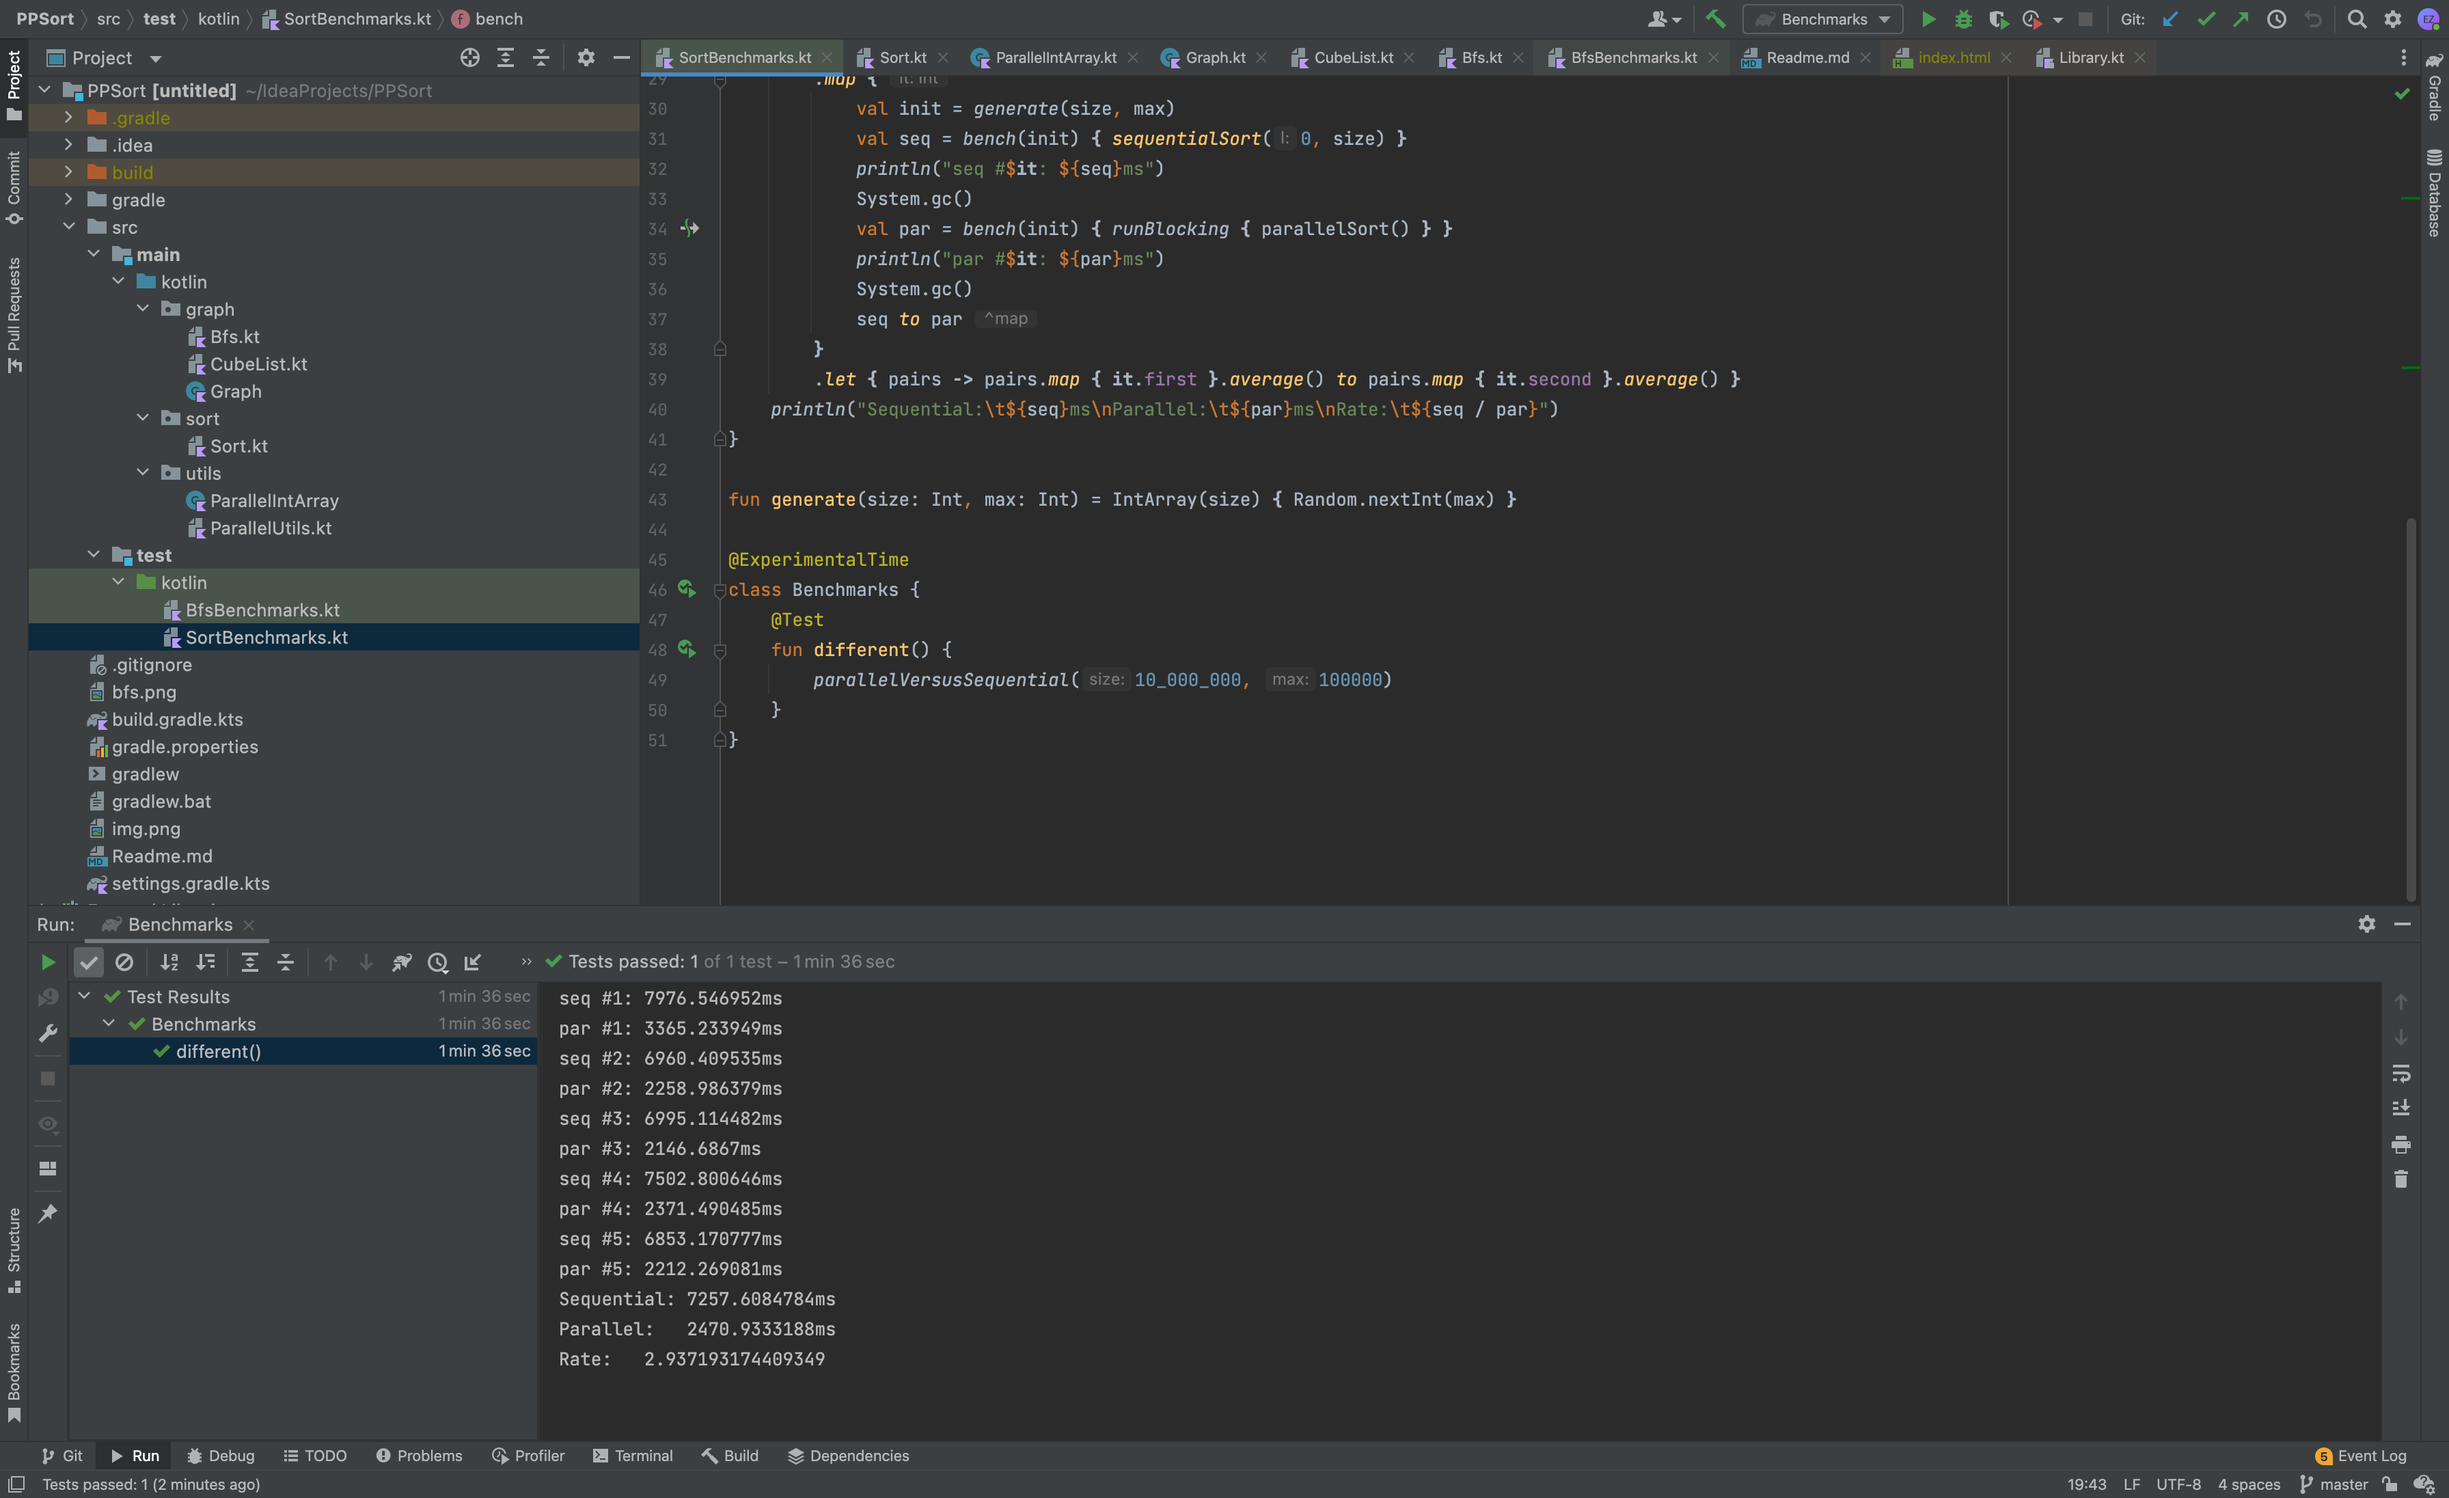
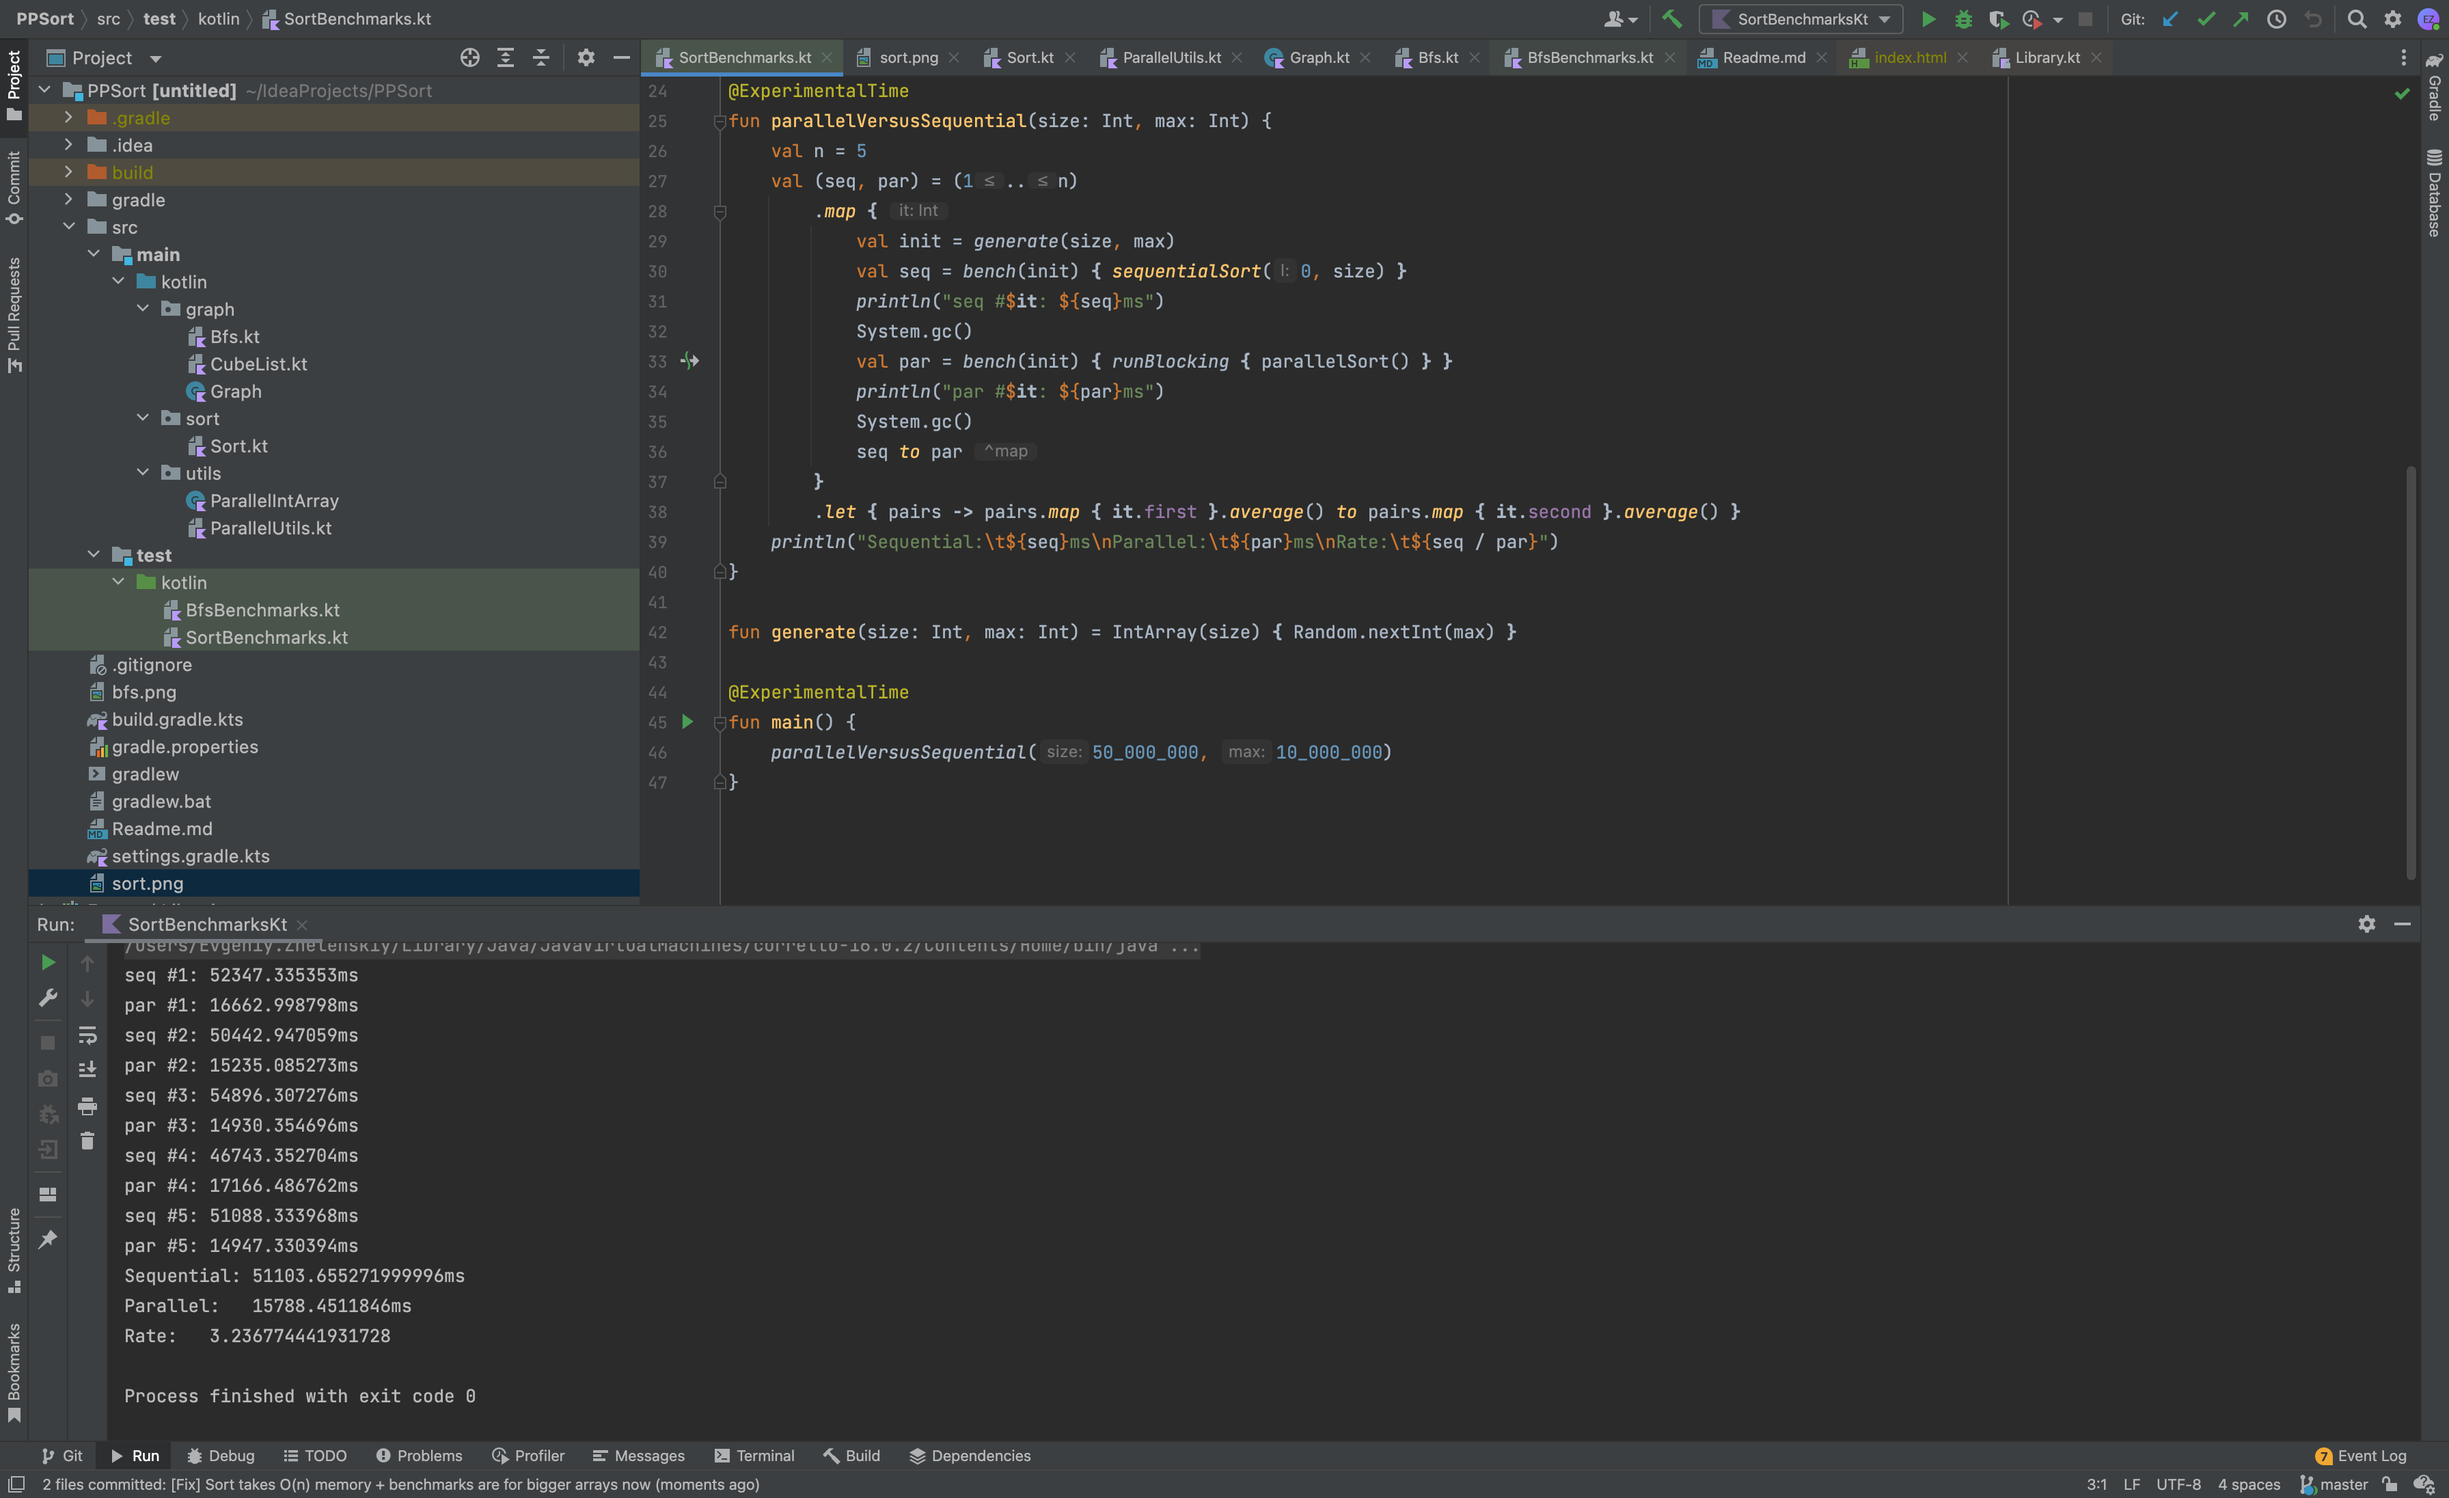
[Fix] Sort takes O(n) memory + benchmarks are for bigger arrays now

diff --git a/src/main/kotlin/sort/Sort.kt b/src/main/kotlin/sort/Sort.kt
@@ -39,23 +39,23 @@ fun main() {
     }
 }
 
-suspend fun ParallelIntArray.parallelSort() {
-    if (size < utils.Config.psortChunk) return sequentialSort(0, size)
-    val pivot = get((0 until size).random())
+suspend fun ParallelIntArray.parallelSort(l: Int = 0, r: Int = size) {
+    if (r - l < Config.psortChunk) return sequentialSort(l, r)
+    val pivot = get((l until r).random())
     val (left, middle, right) = fork2join(
-        { pfilter { it < pivot } },
-        { pfilter { it == pivot } },
-        { pfilter { it > pivot } },
+        { pfilter(l, r) { it < pivot } },
+        { pfilter(l, r) { it == pivot } },
+        { pfilter(l, r) { it > pivot } },
     )
-    fork2join({ left.parallelSort() }, { right.parallelSort() })
     val offset1 = left.size
     val offset2 = offset1 + middle.size
     fork2join(
-        { (0 until left.size).pfor { this[it] = left[it] } },
-        { (0 until middle.size).pfor { this[offset1 + it] = middle[it] } },
-        { (0 until right.size).pfor { this[offset2 + it] = right[it] } },
+        { (0 until left.size).pfor { this[l + it] = left[it] } },
+        { (0 until middle.size).pfor { this[l + offset1 + it] = middle[it] } },
+        { (0 until right.size).pfor { this[l + offset2 + it] = right[it] } },
     )
     left.close()
     right.close()
     middle.close()
+    fork2join({ parallelSort(l, l + offset1) }, { parallelSort(l + offset2, r) })
 }

diff --git a/src/main/kotlin/utils/ParallelUtils.kt b/src/main/kotlin/utils/ParallelUtils.kt
@@ -81,15 +81,17 @@ fun ParallelIntArray.serialSums() {
 }
 
 suspend inline fun ParallelIntArray.pfilter(
-    crossinline predicate: (Int) -> Boolean
+    l: Int = 0,
+    r: Int = size,
+    crossinline predicate: (Int) -> Boolean,
 ): ParallelIntArray {
-    if (size < Config.pfilterChunk) return asList().filter(predicate).toParallelArray()
-    val offsets = ParallelIntArray(size + 1)
-    (0 until size).pfor { offsets[it] = if (predicate(this[it])) 1 else 0 }
-    offsets[size] = 0
+    if (r - l < Config.pfilterChunk) return asList().subList(l, r).filter(predicate).toParallelArray()
+    val offsets = ParallelIntArray(r - l + 1)
+    (0 until r - l).pfor { offsets[it] = if (predicate(this[l + it])) 1 else 0 }
+    offsets[r - l] = 0
     offsets.psums()
     val res = ParallelIntArray(offsets[offsets.size - 1])
-    (0 until size).pfor { if (offsets[it + 1] - offsets[it] == 1) res[offsets[it]] = this[it] }
+    (0 until r - l).pfor { if (offsets[it + 1] - offsets[it] == 1) res[offsets[it]] = this[l + it] }
     offsets.close()
     return res
 }

diff --git a/src/test/kotlin/SortBenchmarks.kt b/src/test/kotlin/SortBenchmarks.kt
@@ -1,6 +1,5 @@
 import kotlinx.coroutines.runBlocking
 import org.junit.jupiter.api.Assertions.assertIterableEquals
-import org.junit.jupiter.api.Test
 import sort.parallelSort
 import sort.sequentialSort
 import utils.ParallelIntArray
@@ -43,9 +42,6 @@ fun parallelVersusSequential(size: Int, max: Int) {
 fun generate(size: Int, max: Int) = IntArray(size) { Random.nextInt(max) }
 
 @ExperimentalTime
-class Benchmarks {
-    @Test
-    fun different() {
-        parallelVersusSequential(10_000_000, 100000)
-    }
+fun main() {
+    parallelVersusSequential(50_000_000, 10_000_000)
 }

diff --git a/Readme.md b/Readme.md
@@ -1,18 +1,18 @@
 My sort output is:
 ```yaml
-seq #1: 7976.546952ms
-par #1: 3365.233949ms
-seq #2: 6960.409535ms
-par #2: 2258.986379ms
-seq #3: 6995.114482ms
-par #3: 2146.6867ms
-seq #4: 7502.800646ms
-par #4: 2371.490485ms
-seq #5: 6853.170777ms
-par #5: 2212.269081ms
-Sequential:	7257.6084784ms
-Parallel:	2470.9333188ms
-Rate:	2.937193174409349
+seq #1: 52347.335353ms
+par #1: 16662.998798ms
+seq #2: 50442.947059ms
+par #2: 15235.085273ms
+seq #3: 54896.307276ms
+par #3: 14930.354696ms
+seq #4: 46743.352704ms
+par #4: 17166.486762ms
+seq #5: 51088.333968ms
+par #5: 14947.330394ms
+Sequential:	51103.655271999996ms
+Parallel:	15788.4511846ms
+Rate:	3.236774441931728
 ```
 Every even row is temporary parallel or sequential result time.
 
